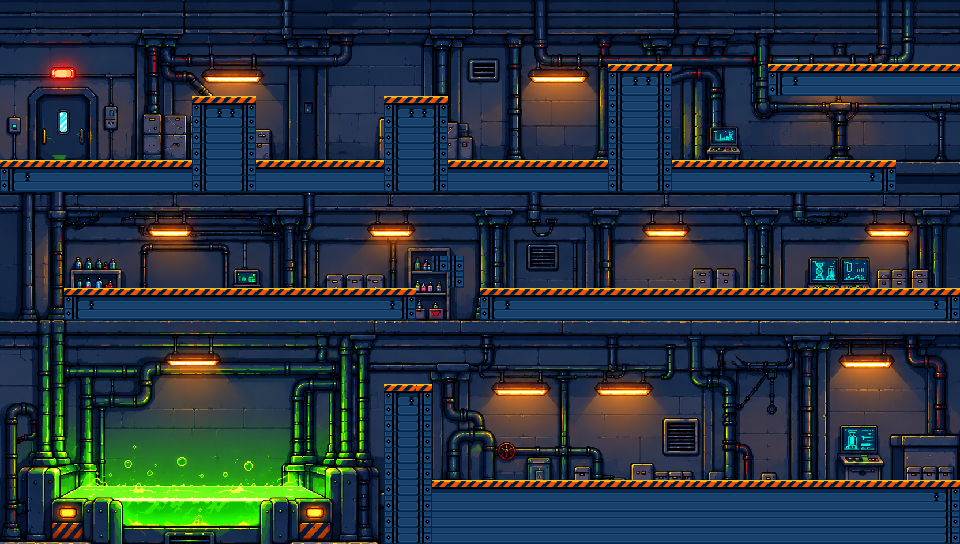
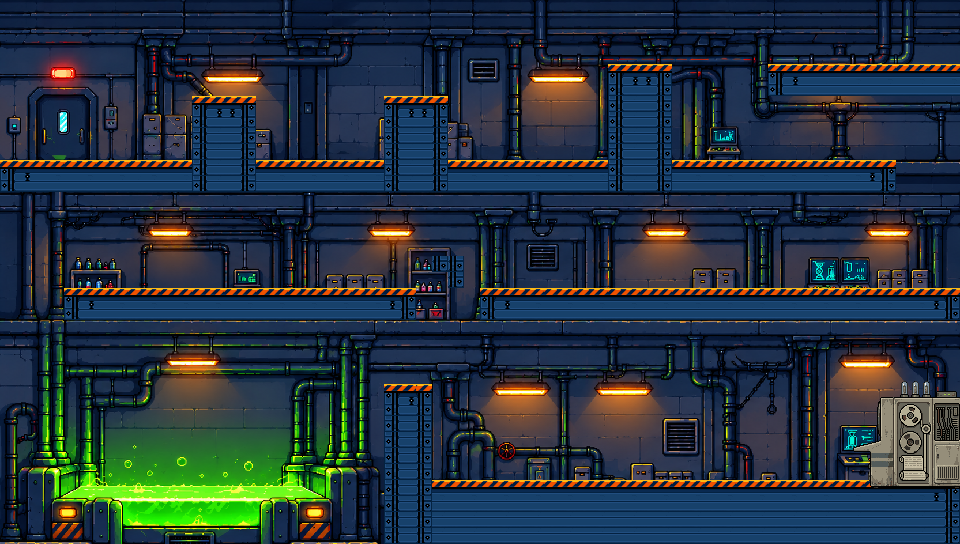
att

Changed region(s): [[0.875, 0.6875, 1.0, 0.9062]]

diff --git a/ExitPoint.java b/ExitPoint.java
@@ -6,7 +6,7 @@ public class ExitPoint extends Actor
     public void act()
     {
         checkExit();
-        setImage("soldier_attack2.png");
+        //setImage("soldier_attack2.png");
     }
 
     private void checkExit()

diff --git a/Level3.java b/Level3.java
@@ -43,6 +43,7 @@ public class Level3 extends Level {
         addObject(new Soldier(), 900, 50);
         
         addObject(new Clue(20),930,50);
+        addObject(new ExitPoint(),870,450);
     }
 
     public void fall(){
